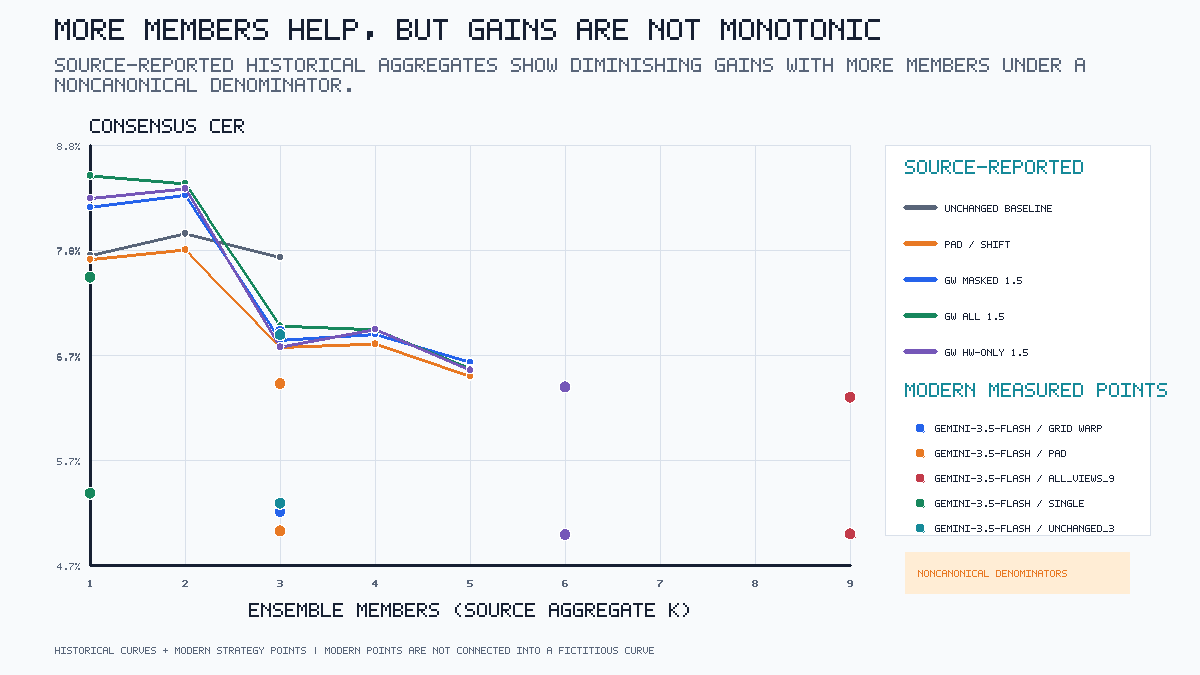
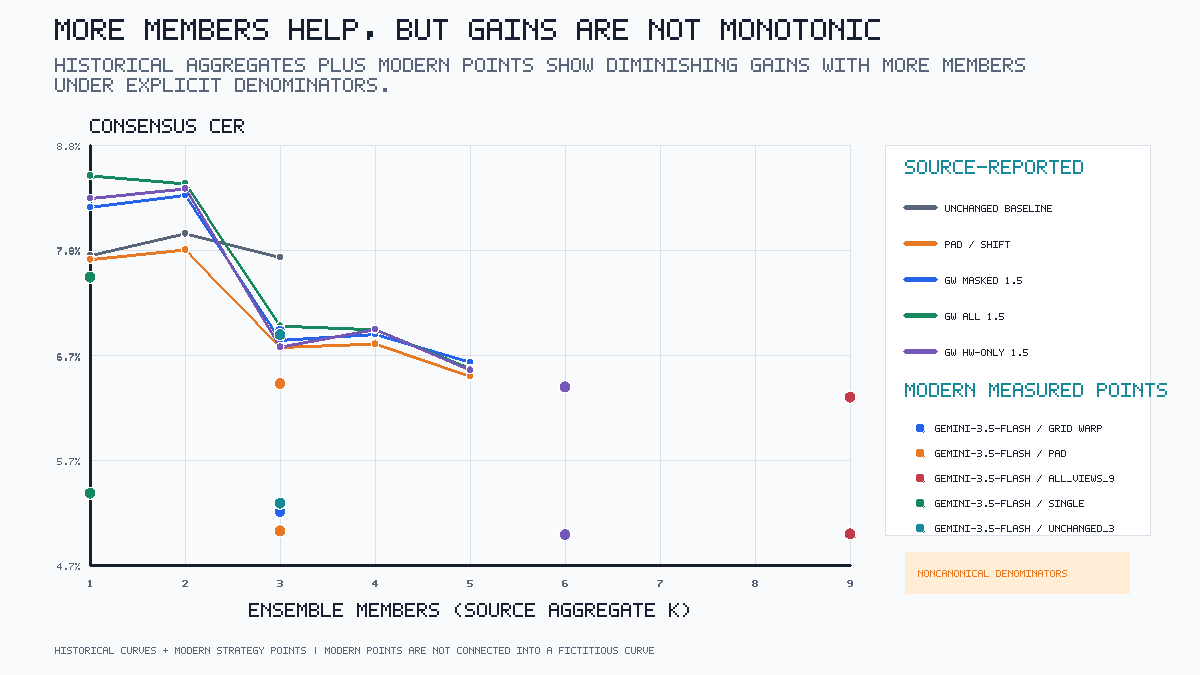
Refresh modern chart presentation

diff --git a/scripts/generate_charts.py b/scripts/generate_charts.py
@@ -57,11 +57,11 @@ TAKEAWAYS = {
     BASENAMES[0]: "Useful ensembles need informative members that make different mistakes; modern and historical coordinates are labelled by source.",
     BASENAMES[1]: "Adding correlated samples has rapidly diminishing informational value.",
     BASENAMES[2]: "Grid Warp can be useful as a selective confidence generator, but raw agreement is not a calibrated probability.",
-    BASENAMES[3]: "The production objective is fewer human reviews for known quality and cost, but the historical cost axis is unavailable.",
+    BASENAMES[3]: "The production objective is fewer human reviews for known quality; modern usage is measured, but pricing is unavailable.",
     BASENAMES[4]: "Transcription agreement exhibits periodic sensitivity to image alignment, consistent with but not proof of patch or grid effects.",
     BASENAMES[5]: "Modern transfer is measured at a fixed descriptive precision target, with unresolved or unavailable routes shown explicitly.",
     BASENAMES[6]: "Historical validation selection frequency describes which families appeared often; it does not establish causal contribution.",
-    BASENAMES[7]: "Source-reported historical aggregates show diminishing gains with more members under a noncanonical denominator.",
+    BASENAMES[7]: "Historical aggregates plus modern points show diminishing gains with more members under explicit denominators.",
     BASENAMES[8]: "Qualitative failure examples remain blocked until stable redacted lineage and release-authorized crops exist.",
 }
 
@@ -374,36 +374,42 @@ def short_warp(name: str):
 def chart_1(data, out):
     valid = [r for r in data if number(r, "individual_cer") is not None and number(r, "error_correlation") is not None]
     categories = [r for r in data if number(r, "individual_cer") is None]
-    c = Canvas(BASENAMES[0], "Useful diversity: complete historical coordinates", TAKEAWAYS[BASENAMES[0]], TABLE_MAP[BASENAMES[0]],
+    c = Canvas(BASENAMES[0], "Useful diversity: historical and modern coordinates", TAKEAWAYS[BASENAMES[0]], TABLE_MAP[BASENAMES[0]],
                ["Only WARP per-condition rows contain both individual CER and error correlation.", "v7 category rows contain consensus CER only and are not plotted as individual metrics."])
     heading(c, "Useful diversity: accuracy and different mistakes", TAKEAWAYS[BASENAMES[0]])
-    a = Axes(c, 90, 145, 690, 410, .60, 1.00, .075, .107)
-    a.draw([.6,.7,.8,.9,1.0], [.08,.09,.10], "Mean pairwise field-error correlation (lower is more diverse)", "WARP avg_cer (lower is better)", lambda v:f"{v:.1f}", lambda v:f"{v:.2f}")
+    y_values = [number(r, "individual_cer") for r in valid]
+    ymin = max(0.0, min(y_values) - .005) if y_values else .0
+    ymax = min(1.0, max(y_values) + .005) if y_values else 1.0
+    y_ticks = [ymin + (ymax - ymin) * i / 4 for i in range(5)]
+    a = Axes(c, 90, 145, 690, 410, .60, 1.00, ymin, ymax)
+    a.draw([.6,.7,.8,.9,1.0], y_ticks, "Mean pairwise field-error correlation (lower is more diverse)", "Mean individual CER (lower is better)", lambda v:f"{v:.1f}", lambda v:f"{v:.2f}")
     label_rows = {min(valid, key=lambda q: number(q, "error_correlation"))["strategy"], "shift_only"}
     for r in valid:
         x, y = a.px(number(r,"error_correlation")), a.py(number(r,"individual_cer"))
-        color = ORANGE if r["family"] == "pad" else BLUE
+        is_modern = not str(r["model_id"]).startswith("models/")
+        color = (PURPLE if is_modern else ORANGE) if r["family"] == "pad" else (TEAL if is_modern else BLUE)
         c.circle(x, y, 7, color, "#ffffff", 2)
         if r["strategy"] in label_rows:
             c.text(x + (8 if x < 700 else -8), y-9, short_warp(r["strategy"]), 11, INK, "start" if x < 700 else "end")
-    c.text(105, 166, f"MEASURED WARP CONDITIONS (n={len(valid)} rows; 5 members each)", 12, BLUE, "start", "bold")
+    c.text(105, 166, f"MEASURED CONDITIONS (n={len(valid)} rows; historical + modern)", 12, BLUE, "start", "bold")
     c.rect(815, 145, 335, 410, "#ffffff", GRID, 1)
     c.text(835, 174, "V7 CATEGORY CONSENSUS", 16, PURPLE, "start", "bold")
     c.text(835, 196, "Not individual CER; x coordinate unavailable", 12, MUTED)
+    c.text(835, 214, "Plot: historical blue/orange; modern teal/purple", 10, MUTED)
     wanted = [("Baseline",1),("Pad",10),("Grid Warp",10),("Resize",10),("Temperature = 1.0",10)]
     selected = []
     for name, n in wanted:
         match = next((r for r in categories if r["strategy"] == name and int(r["n_samples"]) == n), None)
         if match: selected.append(match)
     for i, r in enumerate(selected):
-        yy = 230 + i*52
+        yy = 250 + i*48
         c.text(835, yy, f"{r['strategy']} (n={r['n_samples']})", 13, INK)
         c.text(835, yy+18, f"consensus CER {100*number(r,'consensus_cer'):.2f}%", 11, PURPLE)
         c.line(835, yy+28, 1128, yy+28, GRID)
     c.rect(835, 500, 293, 35, PALE_ORANGE, "none")
     c.text(849, 514, "LIMITATION", 10, ORANGE, "start", "bold")
     c.text(849, 529, "No shared x/y metric across sources", 10, INK)
-    footer(c, "MEASURED aggregate rows | Historical noncanonical denominators; metric roles preserved from CSV notes")
+    footer(c, "MEASURED aggregate rows | Historical and modern denominators; metric roles preserved from CSV notes")
     c.save(out/(BASENAMES[0]+".svg"), out/(BASENAMES[0]+".png"))
 
 
@@ -430,15 +436,15 @@ def chart_2(data, out):
         c.text(a.px(rho)-5,a.py(projected)+dy,f"{short_warp(r['strategy'])}: rho={rho:.3f}",12,INK,"end")
     c.rect(885,145,265,420,"#ffffff",GRID)
     c.text(905,176,"EMPIRICAL OVERLAY",15,BLUE,"start","bold")
-    c.text(905,199,f"{len(measured)} measured WARP",13,INK)
-    c.text(905,219,"correlations (5-member rows)",13,INK)
+    c.text(905,199,f"{len(measured)} measured",13,INK)
+    c.text(905,219,"historical/modern correlations",13,INK)
     c.text(905,252,"Points are projected onto",12,MUTED)
     c.text(905,270,"the N=10 theory curve.",12,MUTED)
     c.rect(905,310,225,126,PALE_RED,"none")
     c.text(920,334,"BLOCKED FAMILY ROWS",13,RED,"start","bold")
     for i,r in enumerate(blocked): c.text(920,360+i*25,f"{r['strategy']}: no rho",12,INK)
     c.text(920,420,"No prose values promoted",11,MUTED)
-    footer(c,"THEORETICAL curve + MEASURED correlations | Correlation denominator: 4,920 historical fields (noncanonical)")
+    footer(c,"THEORETICAL curve + MEASURED correlations | Historical ~4,920 fields; modern raw six-name 3,718 cells")
     c.save(out/(BASENAMES[1]+".svg"), out/(BASENAMES[1]+".png"))
 
 
@@ -488,7 +494,7 @@ def chart_3(data, out):
 def chart_4(cost_data, frontier, out):
     numeric=[r for r in frontier if number(r,"review_fields_per_1000") is not None]
     c=Canvas(BASENAMES[3],"Review frontier with blocked cost axis",TAKEAWAYS[BASENAMES[3]],TABLE_MAP[BASENAMES[3]],
-             ["No source row contains observed usage, pricing, currency, or cost.", "Only numeric review burden is rendered; no dollar coordinate is invented."])
+             ["Historical usage/pricing is unavailable; modern usage is measured without a pricing snapshot.", "Only numeric review burden is rendered; no dollar coordinate is invented."])
     heading(c,"Human review is measurable; inference cost is not",TAKEAWAYS[BASENAMES[3]])
     c.rect(65,145,660,430,"#ffffff",GRID)
     c.text(90,178,"NUMERIC REVIEW BURDEN AT CSV TARGET",15,BLUE,"start","bold")
@@ -507,9 +513,9 @@ def chart_4(cost_data, frontier, out):
             c.text(105,y,f"{r['strategy']}: target/cost coordinate blocked",13,RED,"start","bold")
     c.rect(760,145,390,430,PALE_ORANGE,ORANGE,2)
     c.text(790,183,"COST AXIS: BLOCKED",18,ORANGE,"start","bold")
-    c.text(790,214,"No observed usage logs",14,INK)
-    c.text(790,238,"No pricing snapshot",14,INK)
-    c.text(790,262,"No currency or cost amounts",14,INK)
+    c.text(790,214,"Historical usage not located",14,INK)
+    c.text(790,238,"Modern usage is measured",14,INK)
+    c.text(790,262,"No pricing/cost snapshot",14,INK)
     c.line(790,292,1120,292,ORANGE,2,"8,6")
     c.text(790,320,f"Blocked run/model rows: {len(cost_data)}",13,INK)
     for i,r in enumerate(cost_data):
@@ -575,7 +581,12 @@ def chart_6(data,out):
                 c.text(x,y+29,f"P={100*number(r,'observed_precision'):.2f}%",10,GREEN,"middle")
             elif r:
                 c.rect(x-32,y-19,64,28,PALE_RED,RED,1)
-                label="NO POINT" if r["evidence_status"]=="recomputed_historical_target_not_met" else "BLOCKED"
+                if r["evidence_status"]=="recomputed_historical_target_not_met":
+                    label="NO POINT"
+                elif r["evidence_status"]=="modern_measured_target_not_met":
+                    label="TARGET NOT MET"
+                else:
+                    label="ROUTE BLOCKED"
                 c.text(x,y+1,label,10,RED,"middle","bold")
             else:
                 c.text(x,y,"-",14,MUTED,"middle")

diff --git a/local_agent/CHART_RECEIPT.md b/local_agent/CHART_RECEIPT.md
@@ -10,12 +10,12 @@ The modern source-table snapshots used for this regeneration are:
 
 | Table | Rows | SHA-256 |
 |---|---:|---|
[1 lines of base64/hex data omitted]
-| `precision_coverage.csv` | 2,499 | `596541de76942030f3070f8ac5b74757c044bba09174da371819e2b3fd179ef` |
[9 lines of base64/hex data omitted]
 
 The exact command remains `python3 scripts/generate_charts.py
 --derived-dir outputs/derived --figure-dir outputs/figures`. This is an
@@ -73,36 +73,36 @@ Rows exclude the header.
 | Source table | Rows | Bytes | SHA-256 |
 |---|---:|---:|---|
[15 lines of base64/hex data omitted]
 
 ## Output provenance
 
 | Output | Bytes | Dimensions | SHA-256 |
 |---|---:|---:|---|
[28 lines of base64/hex data omitted]
 
@@ -139,5 +139,5 @@ All nine PNGs were rendered and visually inspected directly (not inferred from c
 
 - C1–C3, C5, C7–C9: headings, subtitles, axis labels, legends, and side panels render without clipping or overlap.
 - C4 (`04_cost_review_frontier`): **fixed**. The prior pass's per-row strategy label (e.g. "GRID WARP (N=...") was drawn at x=90 immediately left of a bar container starting at x=250, and the label bled behind the bar rectangle. `chart_4` in `scripts/generate_charts.py` now places the strategy label ("GRID WARP (N=20)") on its own text line above the bar, at the container's full left margin (x=90), and widens the bar/track to span the full container width (x=90 to x=670) instead of starting at x=250. The label no longer shares a horizontal row with the bar it describes, so it cannot run behind the bar container regardless of strategy-name or n-sample length; the coverage/precision caption line and the two blocked-row panels (Pad, Resize) below are unaffected and still render without overlap. Verified visually in the regenerated PNG: the label sits cleanly above the fully visible blue/gray bar with no clipping.
-- C6 (`06_cross_model_coverage`): the single measured cell (Gemini-2.0-Flash / Grid Warp) renders as a green dot with "40.4%" and "P=95.23%" beneath it, clearly distinguished from the red BLOCKED cells; no overlap observed.
+- C6 (`06_cross_model_coverage`): the single numeric cell (Gemini-2.0-Flash / Grid Warp) renders as a green dot with "40.4%" and "P=95.23%" beneath it. Modern 3.5 rows render as red "TARGET NOT MET" cells, while the 3.7/Qwen rows render as red "ROUTE BLOCKED" cells; no overlap observed.
 - No SVG/PNG shows placeholder text, invented numbers, or unlabeled provider data.

diff --git a/local_agent/HISTORICAL_REANALYSIS.md b/local_agent/HISTORICAL_REANALYSIS.md
@@ -87,15 +87,15 @@ Raw historical JSON was not needed because the available aggregate and v7 consen
 
 | Output | Rows | Bytes | SHA-256 | Status |
 |---|---:|---:|---|---|
[15 lines of base64/hex data omitted]
 
 ## Blockers and nonclaims
